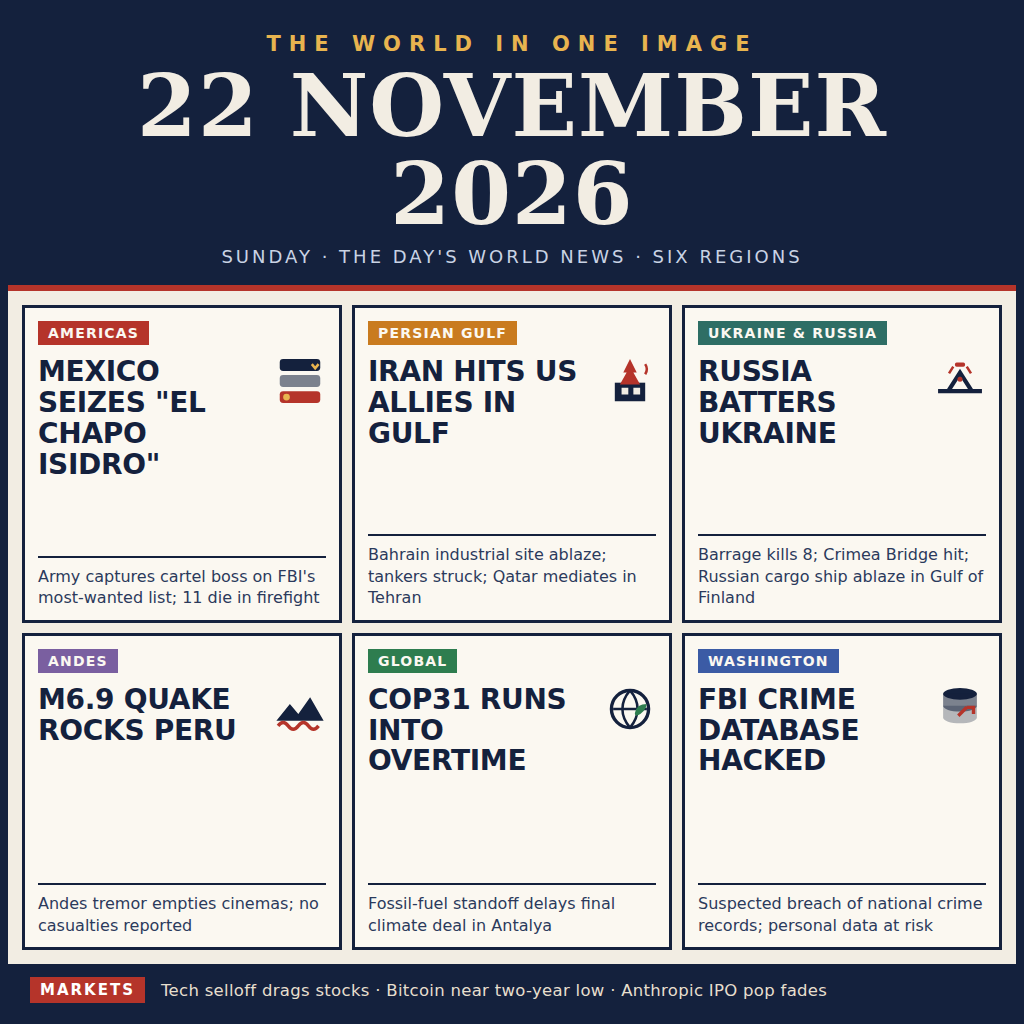
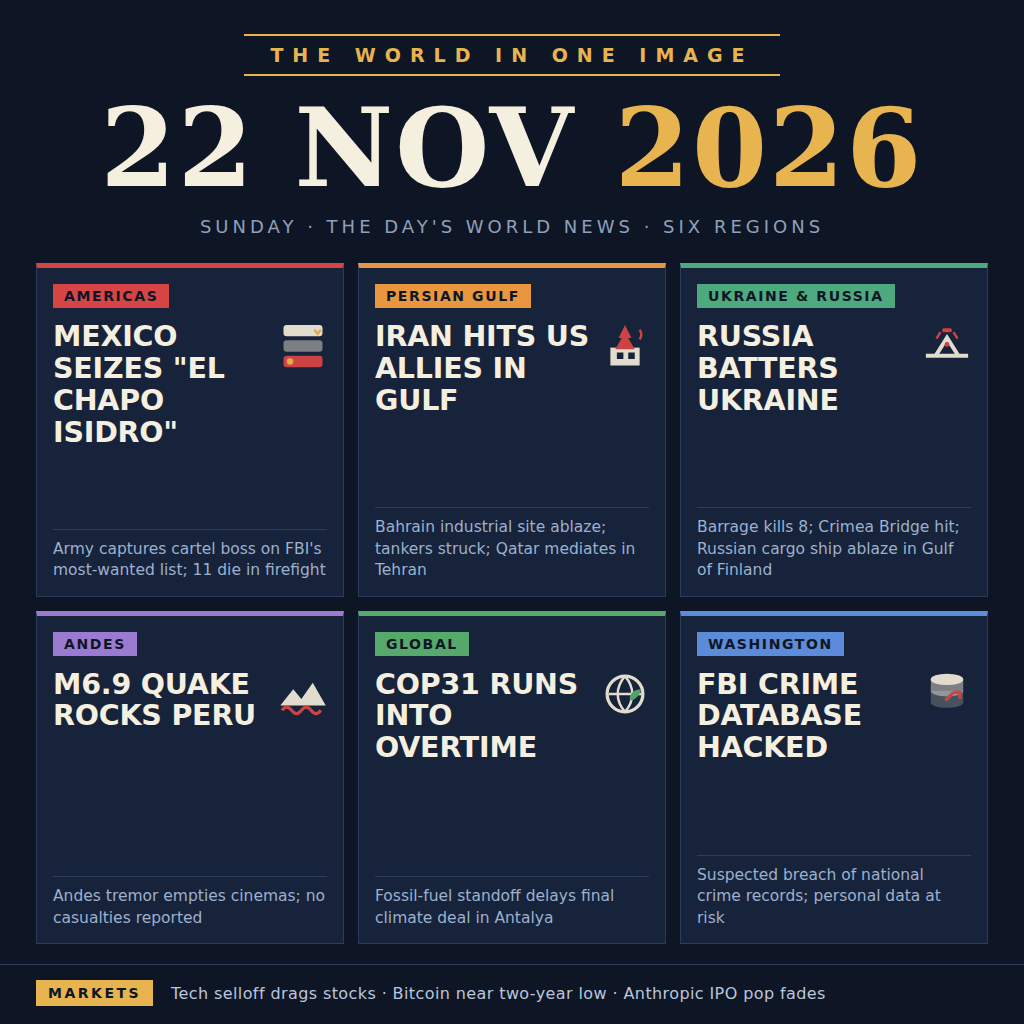
Redesign: dark editorial poster layout

diff --git a/entry.html b/entry.html
@@ -1,76 +1,77 @@
 <!DOCTYPE html>
 <html><head><meta charset="utf-8"><style>
   * { margin:0; padding:0; box-sizing:border-box; }
-  body { width:1024px; height:1024px; background:#F2EDE3; font-family:'DejaVu Sans',sans-serif; color:#14213D; }
-  .page { width:1024px; height:1024px; display:flex; flex-direction:column; border:8px solid #14213D; }
+  body { width:1024px; height:1024px; background:#0E1626; font-family:'DejaVu Sans',sans-serif; color:#EDE6D6; }
+  .page { width:1024px; height:1024px; display:flex; flex-direction:column; background:#0E1626; position:relative; }
 
   /* masthead */
-  .mast { background:#14213D; color:#F2EDE3; padding:24px 30px 18px; text-align:center; border-bottom:6px solid #B5342A; }
-  .kicker { font-size:21px; letter-spacing:8px; color:#E8B44F; font-weight:bold; }
-  .date { font-family:'DejaVu Serif',serif; font-size:86px; font-weight:bold; letter-spacing:1px; line-height:1.02; margin-top:6px; }
-  .sub { font-size:18px; letter-spacing:3px; margin-top:9px; color:#C9D3E4; }
+  .mast { text-align:center; padding:34px 40px 0; }
+  .kicker { display:inline-block; font-size:19px; letter-spacing:9px; color:#E8B44F; font-weight:bold; border-top:2px solid #E8B44F; border-bottom:2px solid #E8B44F; padding:8px 26px; }
+  .date { font-family:'DejaVu Serif',serif; font-size:108px; font-weight:bold; color:#F5EFE0; line-height:1.0; margin-top:18px; letter-spacing:2px; }
+  .date .yr { color:#E8B44F; }
+  .sub { font-size:18px; letter-spacing:4px; margin-top:14px; color:#8FA0BC; }
 
   /* grid */
-  .grid { flex:1; display:grid; grid-template-columns:1fr 1fr 1fr; grid-template-rows:1fr 1fr; gap:10px; padding:14px; }
-  .card { background:#FBF8F1; border:3px solid #14213D; padding:13px 13px 11px; display:flex; flex-direction:column; position:relative; }
-  .chip { align-self:flex-start; font-size:14px; font-weight:bold; letter-spacing:1.2px; color:#FBF8F1; padding:4px 10px; }
-  .icon { position:absolute; right:12px; top:46px; width:54px; height:54px; }
-  .hl { font-size:28px; font-weight:bold; line-height:1.1; margin-top:12px; padding-right:8px; letter-spacing:-0.3px; }
-  .hl2 { padding-right:62px; }
-  .dt { font-size:16px; line-height:1.34; margin-top:auto; color:#2B3A5C; border-top:2px solid #14213D; padding-top:8px; }
+  .grid { flex:1; display:grid; grid-template-columns:1fr 1fr 1fr; grid-template-rows:1fr 1fr; gap:14px; padding:26px 36px 20px; }
+  .card { background:#16233A; border:1px solid #2C3C5C; border-top:5px solid var(--ac); padding:16px 16px 14px; display:flex; flex-direction:column; position:relative; }
+  .chip { align-self:flex-start; font-size:14px; font-weight:bold; letter-spacing:1.6px; color:#0E1626; background:var(--ac); padding:4px 11px; }
+  .icon { position:absolute; right:14px; top:52px; width:52px; height:52px; opacity:.95; }
+  .hl { font-size:28.5px; font-weight:bold; line-height:1.12; margin-top:13px; color:#F5EFE0; letter-spacing:-0.2px; }
+  .hl2 { padding-right:58px; }
+  .dt { font-size:15.5px; line-height:1.38; margin-top:auto; color:#9DB0CE; border-top:1px solid #2C3C5C; padding-top:9px; }
 
   /* footer */
-  .foot { background:#14213D; color:#F2EDE3; padding:13px 22px; display:flex; align-items:center; gap:16px; }
-  .ftag { flex:none; background:#B5342A; color:#fff; font-weight:bold; font-size:15px; letter-spacing:2px; padding:4px 10px; }
-  .ftxt { font-size:16.5px; letter-spacing:0.3px; color:#E7DFCE; white-space:nowrap; }
+  .foot { border-top:1px solid #2C3C5C; padding:15px 36px 0; display:flex; align-items:center; gap:18px; padding-bottom:18px; }
+  .ftag { flex:none; font-weight:bold; font-size:14px; letter-spacing:2.5px; color:#0E1626; background:#E8B44F; padding:5px 12px; }
+  .ftxt { font-size:16px; letter-spacing:0.4px; color:#B9C6DC; white-space:nowrap; }
 </style></head>
 <body><div class="page">
 
   <div class="mast">
     <div class="kicker">THE WORLD IN ONE IMAGE</div>
-    <div class="date">22 NOVEMBER 2026</div>
+    <div class="date">22 NOV <span class="yr">2026</span></div>
     <div class="sub">SUNDAY &middot; THE DAY'S WORLD NEWS &middot; SIX REGIONS</div>
   </div>
 
   <div class="grid">
-    <div class="card">
-      <span class="chip" style="background:#B5342A;">AMERICAS</span>
-      <svg class="icon" viewBox="0 0 64 64"><rect x="8" y="6" width="48" height="14" rx="4" fill="#14213D"/><rect x="8" y="25" width="48" height="14" rx="4" fill="#14213D" opacity=".55"/><rect x="8" y="44" width="48" height="14" rx="4" fill="#B5342A"/><path d="M46 12l4 5 4-5" stroke="#E8B44F" stroke-width="3" fill="none"/><circle cx="16" cy="51" r="4" fill="#E8B44F"/></svg>
+    <div class="card" style="--ac:#D64545;">
+      <span class="chip">AMERICAS</span>
+      <svg class="icon" viewBox="0 0 64 64"><rect x="8" y="6" width="48" height="14" rx="4" fill="#EDE6D6"/><rect x="8" y="25" width="48" height="14" rx="4" fill="#EDE6D6" opacity=".5"/><rect x="8" y="44" width="48" height="14" rx="4" fill="#D64545"/><path d="M46 12l4 5 4-5" stroke="#E8B44F" stroke-width="3" fill="none"/><circle cx="16" cy="51" r="4" fill="#E8B44F"/></svg>
       <div class="hl hl2">MEXICO SEIZES "EL CHAPO ISIDRO"</div>
       <div class="dt">Army captures cartel boss on FBI's most-wanted list; 11 die in firefight</div>
     </div>
 
-    <div class="card">
-      <span class="chip" style="background:#C97B1F;">PERSIAN GULF</span>
-      <svg class="icon" viewBox="0 0 64 64"><rect x="14" y="34" width="36" height="22" fill="#14213D"/><rect x="22" y="40" width="8" height="8" fill="#F2EDE3"/><rect x="36" y="40" width="8" height="8" fill="#F2EDE3"/><path d="M32 6 L40 22 L36 22 L44 36 L20 36 L28 22 L24 22 Z" fill="#B5342A"/><path d="M50 12 q4 6 0 12" stroke="#B5342A" stroke-width="3" fill="none"/></svg>
+    <div class="card" style="--ac:#E8963F;">
+      <span class="chip">PERSIAN GULF</span>
+      <svg class="icon" viewBox="0 0 64 64"><rect x="14" y="34" width="36" height="22" fill="#EDE6D6"/><rect x="22" y="40" width="8" height="8" fill="#16233A"/><rect x="36" y="40" width="8" height="8" fill="#16233A"/><path d="M32 6 L40 22 L36 22 L44 36 L20 36 L28 22 L24 22 Z" fill="#D64545"/><path d="M50 12 q4 6 0 12" stroke="#D64545" stroke-width="3" fill="none"/></svg>
       <div class="hl hl2">IRAN HITS US ALLIES IN GULF</div>
       <div class="dt">Bahrain industrial site ablaze; tankers struck; Qatar mediates in Tehran</div>
     </div>
 
-    <div class="card">
-      <span class="chip" style="background:#2E6E65;">UKRAINE &amp; RUSSIA</span>
-      <svg class="icon" viewBox="0 0 64 64"><path d="M6 44 h52" stroke="#14213D" stroke-width="5"/><path d="M18 44 L32 22 L46 44" stroke="#14213D" stroke-width="5" fill="none"/><rect x="26" y="10" width="12" height="5" rx="2" fill="#B5342A"/><path d="M24 15 l-5 8 M40 15 l5 8" stroke="#B5342A" stroke-width="3"/><circle cx="32" cy="30" r="3" fill="#B5342A"/></svg>
+    <div class="card" style="--ac:#4FA97F;">
+      <span class="chip">UKRAINE &amp; RUSSIA</span>
+      <svg class="icon" viewBox="0 0 64 64"><path d="M6 44 h52" stroke="#EDE6D6" stroke-width="5"/><path d="M18 44 L32 22 L46 44" stroke="#EDE6D6" stroke-width="5" fill="none"/><rect x="26" y="10" width="12" height="5" rx="2" fill="#D64545"/><path d="M24 15 l-5 8 M40 15 l5 8" stroke="#D64545" stroke-width="3"/><circle cx="32" cy="30" r="3" fill="#D64545"/></svg>
       <div class="hl hl2">RUSSIA BATTERS UKRAINE</div>
       <div class="dt">Barrage kills 8; Crimea Bridge hit; Russian cargo ship ablaze in Gulf of Finland</div>
     </div>
 
-    <div class="card">
-      <span class="chip" style="background:#7A5FA0;">ANDES</span>
-      <svg class="icon" viewBox="0 0 64 64"><path d="M4 46 L20 26 L30 38 L44 18 L60 46 Z" fill="#14213D"/><path d="M6 52 q6 -8 12 0 q6 8 12 0 q6 -8 12 0 q6 8 12 0" stroke="#B5342A" stroke-width="4" fill="none"/></svg>
+    <div class="card" style="--ac:#9B7BD1;">
+      <span class="chip">ANDES</span>
+      <svg class="icon" viewBox="0 0 64 64"><path d="M4 46 L20 26 L30 38 L44 18 L60 46 Z" fill="#EDE6D6"/><path d="M6 52 q6 -8 12 0 q6 8 12 0 q6 -8 12 0 q6 8 12 0" stroke="#D64545" stroke-width="4" fill="none"/></svg>
       <div class="hl">M6.9 QUAKE ROCKS PERU</div>
       <div class="dt">Andes tremor empties cinemas; no casualties reported</div>
     </div>
 
-    <div class="card">
-      <span class="chip" style="background:#2E7D4F;">GLOBAL</span>
-      <svg class="icon" viewBox="0 0 64 64"><circle cx="32" cy="32" r="22" fill="none" stroke="#14213D" stroke-width="4"/><path d="M12 32 h40 M32 10 c-12 14 -12 30 0 44 M32 10 c12 14 12 30 0 44" stroke="#14213D" stroke-width="3" fill="none"/><path d="M40 40 q10 -4 12 -14 q-12 0 -14 10 q-1 3 2 4z" fill="#2E7D4F"/></svg>
+    <div class="card" style="--ac:#57A86B;">
+      <span class="chip">GLOBAL</span>
+      <svg class="icon" viewBox="0 0 64 64"><circle cx="32" cy="32" r="22" fill="none" stroke="#EDE6D6" stroke-width="4"/><path d="M12 32 h40 M32 10 c-12 14 -12 30 0 44 M32 10 c12 14 12 30 0 44" stroke="#EDE6D6" stroke-width="3" fill="none"/><path d="M40 40 q10 -4 12 -14 q-12 0 -14 10 q-1 3 2 4z" fill="#57A86B"/></svg>
       <div class="hl hl2">COP31 RUNS INTO OVERTIME</div>
       <div class="dt">Fossil-fuel standoff delays final climate deal in Antalya</div>
     </div>
 
-    <div class="card">
-      <span class="chip" style="background:#3B5BA5;">WASHINGTON</span>
-      <svg class="icon" viewBox="0 0 64 64"><ellipse cx="32" cy="14" rx="20" ry="7" fill="#14213D"/><path d="M12 14 v14 c0 4 9 7 20 7 s20 -3 20 -7 V14" fill="#14213D" opacity=".55"/><path d="M12 28 v14 c0 4 9 7 20 7 s20 -3 20 -7 V28" fill="#14213D" opacity=".3"/><path d="M30 40 l10 -10 M40 30 h8 v8" stroke="#B5342A" stroke-width="4" fill="none"/></svg>
+    <div class="card" style="--ac:#5B8BD9;">
+      <span class="chip">WASHINGTON</span>
+      <svg class="icon" viewBox="0 0 64 64"><ellipse cx="32" cy="14" rx="20" ry="7" fill="#EDE6D6"/><path d="M12 14 v14 c0 4 9 7 20 7 s20 -3 20 -7 V14" fill="#EDE6D6" opacity=".5"/><path d="M12 28 v14 c0 4 9 7 20 7 s20 -3 20 -7 V28" fill="#EDE6D6" opacity=".25"/><path d="M30 40 l10 -10 M40 30 h8 v8" stroke="#D64545" stroke-width="4" fill="none"/></svg>
       <div class="hl hl2">FBI CRIME DATABASE HACKED</div>
       <div class="dt">Suspected breach of national crime records; personal data at risk</div>
     </div>
